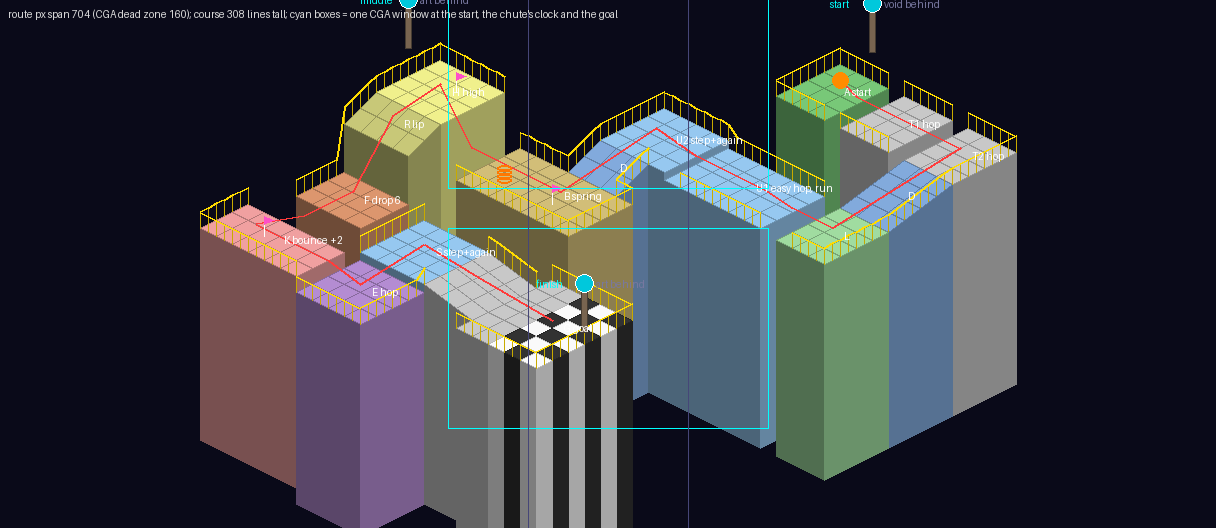
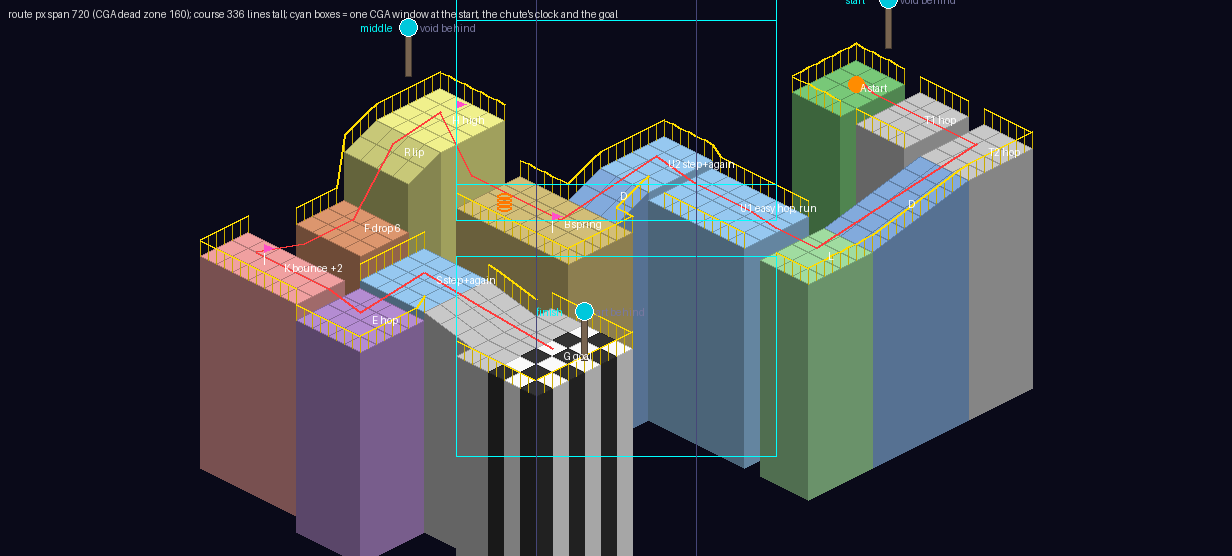
Bonanza: HOP revision 6 - Little Hop; JUMP on T1's rail, JUMP TWICE on U1's; the finish clock on a full column; a six-tile first ramp
Claude-Session: https://claude.ai/code/session_01Wo8a4suEiDfFPFBsnHYKF3

Changed region(s): [[0.0, 0.0, 0.8438, 1.0], [0.5625, 0.0303, 0.5938, 0.0606]]

diff --git a/docs/plans/bonanza-courses/hop/sketch.py b/docs/plans/bonanza-courses/hop/sketch.py
@@ -121,16 +121,17 @@ THICKS = "" if THICK == 3 else " thick %g" % THICK
 # jumps "MUCH too hard", the path unclear where islands sat a tile apart): every Hop is a 1-TILE gap, every
 # "and again" a 1-UNIT step with rails at its sides, no 2-tile gap but the bounce's, and parts of the course that
 # do not connect stand at least three void tiles apart.  GROUNDED: every island a column to the ground.
-# LEG 1, +x: two Hops, each a 1-tile gap, level ("the Hop exists")
-floor("A", 14, 4, 17, 8, Z)                                  # the start island
-rail(14, 4, 17, 4); rail(14, 4, 14, 8); rail(14, 8, 17, 8, "guard")
-floor("T", 18, 4, 21, 8, Z)                                  # T1: Hop 1 (gap x 17)
-rail(18, 4, 21, 4); rail(18, 8, 21, 8, "guard")
-floor("T", 22, 4, 25, 8, Z)                                  # T2: Hop 2 (gap x 21)
-rail(22, 4, 25, 4); rail(25, 4, 25, 8)
+# LEG 1, +x: two Hops, each a 1-tile gap, level ("the Hop exists"); revision 6: one unit higher, the ramp after
+# it six tiles (the owner: "Extend the first D ramp ... The spawn area can get higher to compensate")
+floor("A", 14, 2, 17, 6, Z + 1)                              # the start island
+rail(14, 2, 17, 2); rail(14, 2, 14, 6); rail(14, 6, 17, 6, "guard")
+floor("T", 18, 2, 21, 6, Z + 1)                              # T1: Hop 1 (gap x 17)
+rail(18, 2, 21, 2); rail(18, 6, 21, 6, "guard")
+floor("T", 22, 2, 25, 6, Z + 1)                              # T2: Hop 2 (gap x 21)
+rail(22, 2, 25, 2); rail(25, 2, 25, 6)
 # LEG 2, +y: a ramp down to L
-ramp("D", "y", 22, 8, 25, 12, Z, Z - 2)
-rail(25, 8, 25, 12)
+ramp("D", "y", 22, 6, 25, 12, Z + 1, Z - 2)
+rail(25, 6, 25, 12)
 floor("L", 22, 12, 25, 16, Z - 2)
 rail(25, 12, 25, 16); rail(23, 16, 25, 16, "guard")
 # LEG 3, -x (revision 4, the owner): the EASY HOP - a 1-tile gap onto a ledge half a unit UP, which no ball rolls
@@ -138,35 +139,35 @@ rail(25, 12, 25, 16); rail(23, 16, 25, 16, "guard")
 # 531 ms with its "and again") onto U2; U1 is the long platform, the step's rolling start
 floor("U", 15, 12, 21, 16, Z - 1.5)                          # U1: the easy hop's ledge (gap x 21), SIX tiles long:
 rail(15, 12, 21, 12); rail(16, 16, 21, 16, "guard")          #   the step's rolling start (the owner, revision 5)
-floor("U", 11, 12, 15, 16, Z - 0.5)                          # U2: one unit up
-rail(11, 12, 15, 12); rail(11, 12, 11, 16)
+floor("U", 12, 12, 15, 16, Z - 0.5)                          # U2: one unit up
+rail(12, 12, 15, 12); rail(12, 12, 12, 16)
 # LEG 4, +y then -x: down off U2's far end to the basin; the flag stands where the ramp's centre line meets the
 # spring's row, so a respawn rolls straight on into it; the SPRING throws the ball -x onto H, six units up
-ramp("D", "y", 11, 16, 14, 18, Z - 0.5, Z - 2.5)
-rail(11, 16, 11, 18); rail(14, 16, 14, 18)
-floor("B", 8, 18, 15, 22, Z - 2.5)                           # B: the basin, wide
-rail(8, 18, 11, 18); rail(14, 18, 15, 18); rail(15, 18, 15, 22); rail(8, 22, 15, 22)
-SPRINGS.append((9, 20, 768))                                 # thrown -x, over the void column (x 7), onto H
-floor("H", 3, 18, 7, 22, Z + 3.5)                            # H: six units over the basin
-rail(3, 18, 7, 18); rail(3, 18, 3, 22)                       # (an over-throw is caught)
+ramp("D", "y", 12, 16, 15, 18, Z - 0.5, Z - 2.5)
+rail(12, 16, 12, 18); rail(15, 16, 15, 18)
+floor("B", 9, 18, 16, 22, Z - 2.5)                           # B: the basin, wide
+rail(9, 18, 12, 18); rail(15, 18, 16, 18); rail(16, 18, 16, 22); rail(9, 22, 16, 22)
+SPRINGS.append((10, 20, 768))                                # thrown -x, over the void column (x 8), onto H
+floor("H", 4, 18, 8, 22, Z + 3.5)                            # H: six units over the basin
+rail(4, 18, 8, 18); rail(4, 18, 4, 22)                       # (an over-throw is caught)
 # LEG 5, +y: TRIAL's drop and bounce - down the lip ramp, six units onto F, rubber's rebound onto K, two units
 # over F; revision 4 (the owner): K a tile FARTHER, three tiles on
-ramp("R", "y", 3, 22, 7, 24, Z + 3.5, Z + 1.5)               # R: the lip
-rail(3, 22, 3, 24)
-floor("F", 3, 24, 7, 27, Z - 4.5)                            # F: six units under the lip
-rail(3, 24, 3, 27)
-floor("K", 3, 30, 9, 33, Z - 2.5)                            # K: past a 3-tile gap (y 27 - 29)
-rail(3, 30, 3, 33); rail(3, 33, 9, 33)
+ramp("R", "y", 4, 22, 8, 24, Z + 3.5, Z + 1.5)               # R: the lip
+rail(4, 22, 4, 24)
+floor("F", 4, 24, 8, 27, Z - 4.5)                            # F: six units under the lip
+rail(4, 24, 4, 27)
+floor("K", 4, 30, 10, 33, Z - 2.5)                           # K: past a 3-tile gap (y 27 - 29)
+rail(4, 30, 4, 33); rail(4, 33, 10, 33)
 # LEG 6, +x then -y: once more, both moves - a Hop over a 1-tile gap, a step with its "and again" - then the goal
-floor("E", 10, 30, 14, 34, Z - 2.5)                          # E: a Hop (gap x 9)
-rail(10, 34, 14, 34); rail(14, 30, 14, 34)
-floor("S", 10, 26, 14, 30, Z - 1.5)                          # S: one unit up from E, climbed -y
-rail(10, 26, 10, 30)
-ramp("G", "x", 14, 26, 17, 30, Z - 1.5, Z - 3)               # G: down, +x, to the goal
-rail(14, 26, 17, 26)
-floor("G", 17, 25, 22, 31, Z - 3)                            # the goal plateau
-rail(17, 25, 22, 25); rail(22, 25, 22, 31); rail(17, 31, 22, 31)
-GOAL = {(x, y) for x in range(19, 22) for y in range(25, 31)}
+floor("E", 11, 30, 15, 34, Z - 2.5)                          # E: a Hop (gap x 10)
+rail(11, 34, 15, 34); rail(15, 30, 15, 34)
+floor("S", 11, 26, 15, 30, Z - 1.5)                          # S: one unit up from E, climbed -y
+rail(11, 26, 11, 30)
+ramp("G", "x", 15, 26, 18, 30, Z - 1.5, Z - 3)               # G: down, +x, to the goal
+rail(15, 26, 18, 26)
+floor("G", 18, 25, 23, 31, Z - 3)                            # the goal plateau
+rail(18, 25, 23, 25); rail(23, 25, 23, 31); rail(18, 31, 23, 31)
+GOAL = {(x, y) for x in range(20, 23) for y in range(25, 31)}
 
 # THE LIPS: a grounded island's face fills a 1-tile gap exactly as it fills a step's riser, so a gap and a step
 # look alike.  The lip row of each gap FLOATS one unit thick, a black notch under it saying "gap": the NEAR
@@ -174,28 +175,28 @@ GOAL = {(x, y) for x in range(19, 22) for y in range(25, 31)}
 # the one in view
 def lip(x0, y0, x1, y1):
     ROOMS_TXT.append("float rect %3d %3d %3d %3d thick 1   # the lip over a gap" % (x0 + OFF, y0 + OFF, x1 + OFF, y1 + OFF))
-lip(16, 4, 17, 8); lip(20, 4, 21, 8)                         # Hop 1 and Hop 2 (near lips)
+lip(16, 2, 17, 6); lip(20, 2, 21, 6)                         # Hop 1 and Hop 2 (near lips)
 lip(20, 12, 21, 16)                                          # the easy hop, climbed -x (U1's lip, the far one)
-lip(3, 26, 7, 27)                                            # the bounce's gap
-lip(8, 30, 9, 33)                                            # Hop E
+lip(4, 26, 8, 27)                                            # the bounce's gap
+lip(9, 30, 10, 33)                                            # Hop E
 
-START = (15.5, 5.5)
+START = (15.5, 3.5)
 # a flag stands just BEFORE what can kill, so a fall never replays a long stretch
-FLAGS = [(12.5, 20.5, "flag 0"), (5.5, 19.5, "flag 1"), (5.5, 31.5, "flag 2")]
+FLAGS = [(13.5, 20.5, "flag 0"), (6.5, 19.5, "flag 1"), (6.5, 31.5, "flag 2")]
 # clocks (the owner places them; these are first guesses): (wx, wy, the tile's floor z, name, kind)
-CLOCKS = [(15.5, 3.5, Z + 1.5, "start", "block"), (2.5, 19.5, Z + 5, "middle", "block"),
-          (22.5, 28.5, Z - 1.5, "finish", "block")]
+CLOCKS = [(15.5, 1.5, Z + 2.5, "start", "block"), (3.5, 19.5, Z + 5, "middle", "block"),
+          (23.5, 28.5, Z - 1.5, "finish", "block")]
 PLACED = {}
-SIGNS = [(19.5, 11.5, "JUMP!"), (13.5, 11.5, "JUMP\nTWICE!")]   # (the back-rail block, its words): hop/signs.py
+SIGNS = [(19.5, 1.5, "JUMP!"), (16.5, 11.5, "JUMP\nTWICE!")]   # revision 6: "JUMP!" on T1's north rail, "JUMP TWICE!" on U1's (before the step: what to do)   # (the back-rail block, its words): hop/signs.py
 
 # the route, as the player rolls it (the sketch's centre line, not a demo)
-ROUTE = [(15.5, 5.5), (17, 6), (19.5, 6), (21, 6), (23.5, 6), (23.5, 10), (23.5, 14), (21, 14), (19.5, 14),
-         (18, 14), (15, 14), (12.5, 14), (12.5, 17), (12.5, 20), (9, 20), (7, 20), (5, 20), (5, 23), (5, 25.5),
-         (5, 28.5), (5, 31.5), (7.5, 31.5), (9.5, 31.5), (12, 32), (12, 28), (15.5, 28), (20, 28)]
-LABELS = [(15.5, 6, "A start"), (19.5, 6, "T1 hop"), (23.5, 6, "T2 hop"), (23.5, 10, "D"), (23.5, 14, "L"),
-          (18, 14, "U1 easy hop, run"), (13, 14, "U2 step+again"), (12.5, 17, "D"), (12, 20, "B spring"),
-          (5, 20, "H high"), (5, 23, "R lip"), (5, 25.5, "F drop 6"), (6, 31.5, "K bounce +2"), (12, 32, "E hop"),
-          (12, 28, "S step+again"), (20, 28, "G goal")]
+ROUTE = [(15.5, 3.5), (17, 4), (19.5, 4), (21, 4), (23.5, 4), (23.5, 9), (23.5, 14), (21, 14), (19.5, 14),
+         (16, 14), (13.5, 14), (13.5, 17), (13.5, 20), (10, 20), (8, 20), (6, 20), (6, 23), (6, 25.5),
+         (6, 28.5), (6, 31.5), (8.5, 31.5), (10.5, 31.5), (13, 32), (13, 28), (16.5, 28), (21, 28)]
+LABELS = [(15.5, 4, "A start"), (19.5, 4, "T1 hop"), (23.5, 4, "T2 hop"), (23.5, 9, "D"), (23.5, 14, "L"),
+          (18, 14, "U1 easy hop, run"), (13.5, 14, "U2 step+again"), (13.5, 17, "D"), (13, 20, "B spring"),
+          (6, 20, "H high"), (6, 23, "R lip"), (6, 25.5, "F drop 6"), (7, 31.5, "K bounce +2"), (13, 32, "E hop"),
+          (13, 28, "S step+again"), (21, 28, "G goal")]
 
 # --- drawing ----------------------------------------------------------------
 SECCOL = {"K": (240, 160, 160), "S": (150, 200, 240), "U": (150, 200, 240), "V": (240, 200, 150), "R": (200, 200, 120), "L": (160, 220, 160),
@@ -378,10 +379,10 @@ HEAD_TXT = """
 # Course 2, tutorial 2 (working name HOP; docs/plans/bonanza-courses/HOP.md): rubber, the Hop, rubber's "and
 # again", a spring.  Floating islands.  Written by docs/plans/bonanza-courses/hop/sketch.py --bbc while the
 # layout moves; edited by hand once it settles.
-course HOP "Island Hop"
+course HOP "Little Hop"
 guide                     # a REAL course: held to the course guide's checkable rules
 width 128                 # the islands swing 30 tiles across, and a fall drifts 3 more each side (NEAR void): 1024 px, scrolled (G2)
-origin 576                # the reach's span centred in the 1024 px
+origin 560                # the reach's span centred in the 1024 px
 uses spring
 ball rubber
 trap hop                  # NO TRAP presses the Hop and its "and again" too: the course is built on them (SPEC.md 130.14.4.1.1)
@@ -471,8 +472,7 @@ def bbc(out):
         L.append("floor tile %d %d  flat %g   # the %s clock's tile (%s)" % (px, py, z, name, {
             "tile": "level with the path, one block out", "block": "on top of the rail block it replaces",
             "float": "a lone floating pillar"}[kind]))
-        if kind == "float" or (kind == "block" and THICKS and ((int(x) + 1, int(y)) not in solid
-                                                          or (int(x), int(y) + 1) not in solid)):
+        if kind == "float":                     # (a block's clock stands on its column, grounded: revision 6)
             L.append("float tile %d %d%s" % (px, py, THICKS))
         L.append("clock %d %d" % (px, py))
     L.append("")

diff --git a/docs/plans/bonanza-courses/HOP.md b/docs/plans/bonanza-courses/HOP.md
@@ -1,10 +1,28 @@
-# COURSE 2, "Island Hop" (HOP): design sheet
+# COURSE 2, "Little Hop" (HOP; was "Island Hop"): design sheet
 
-*Status: **IN ENGINE, revision 5** (2026-11-19): `apps/bonanza/courses/hop.bbc`,
+*Status: **IN ENGINE, revision 6** (2026-11-19): `apps/bonanza/courses/hop.bbc`,
 written by `hop/sketch.py --bbc --force`, compiles with every check, and the
 BZROLL=1 playtest build carries it on pad 1. The owner's verdict on the gaps
 is the next step; revision 2 below supersedes attempt 1's layout, which
 sections 1 - 4 still describe.*
+
+## Revision 6 (2026-11-19): signs where the move is, a longer first ramp, "Little Hop"
+
+The owner: *"Plays pretty well."*
+- **"JUMP!" on T1's north rail** (*"you have to jump there too"*) and
+  **"JUMP TWICE!" on U1's**, before the step: *"a 'here is what you need to
+  do' instruction instead of a 'do this to get here' instruction"*.
+- **The finish clock's block stands on a full column** to the ground, so it
+  no longer breaks the back wall (block clocks no longer float).
+- **The first ramp is six tiles** (it was four), the start one unit higher.
+  Not double: the picture is 1024 px, and the reach now spans exactly the 60
+  tiles it allows (`origin 560`; U2 three tiles to pay for it). The aim, to
+  take "JUMP TWICE!" out of the spawn's view, is NOT met. *Measured* with the
+  tool's camera model: at the spawn the CGA window covers picture x 592 - 912
+  and the sign's board starts at 613. It leaves the view once the ball rolls
+  right for the first Hops.
+- **The name: "Little Hop"**, the owner's suggestion; the island theme is
+  saved for a much later course.
 
 ## Revision 5 (2026-11-19): the long platform is U1
 
